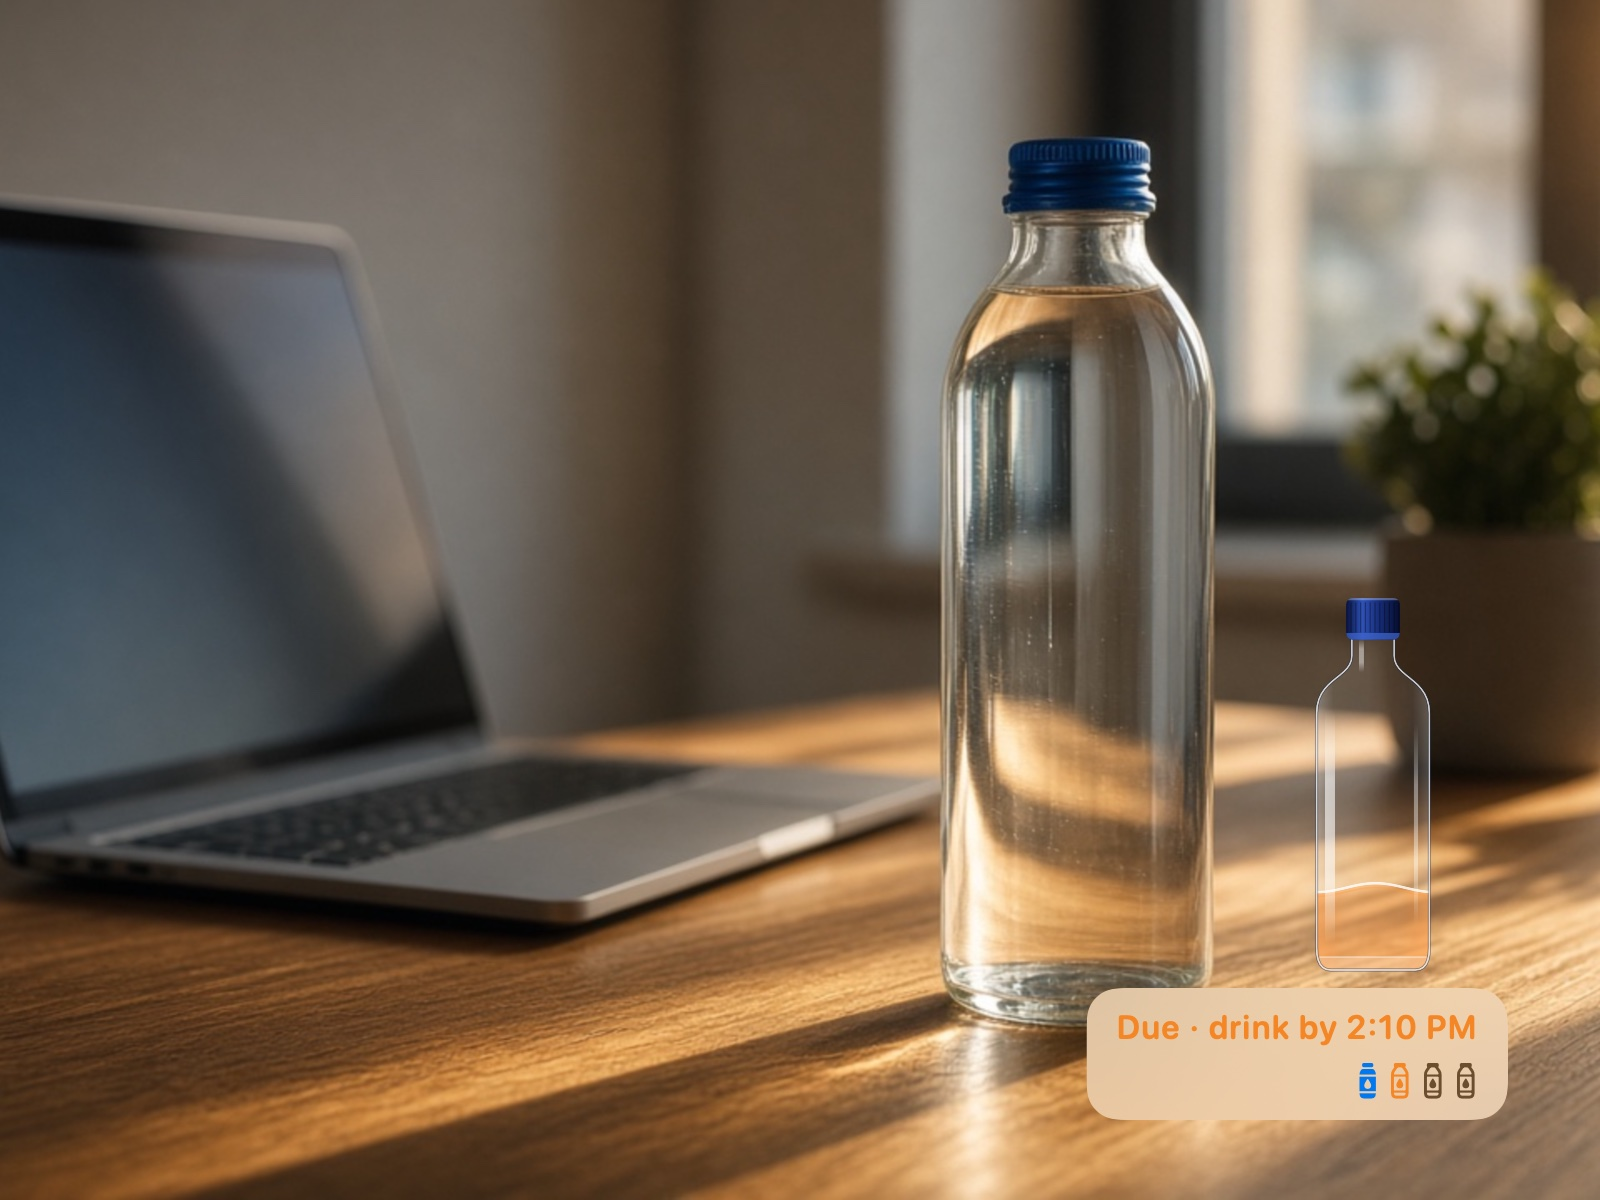
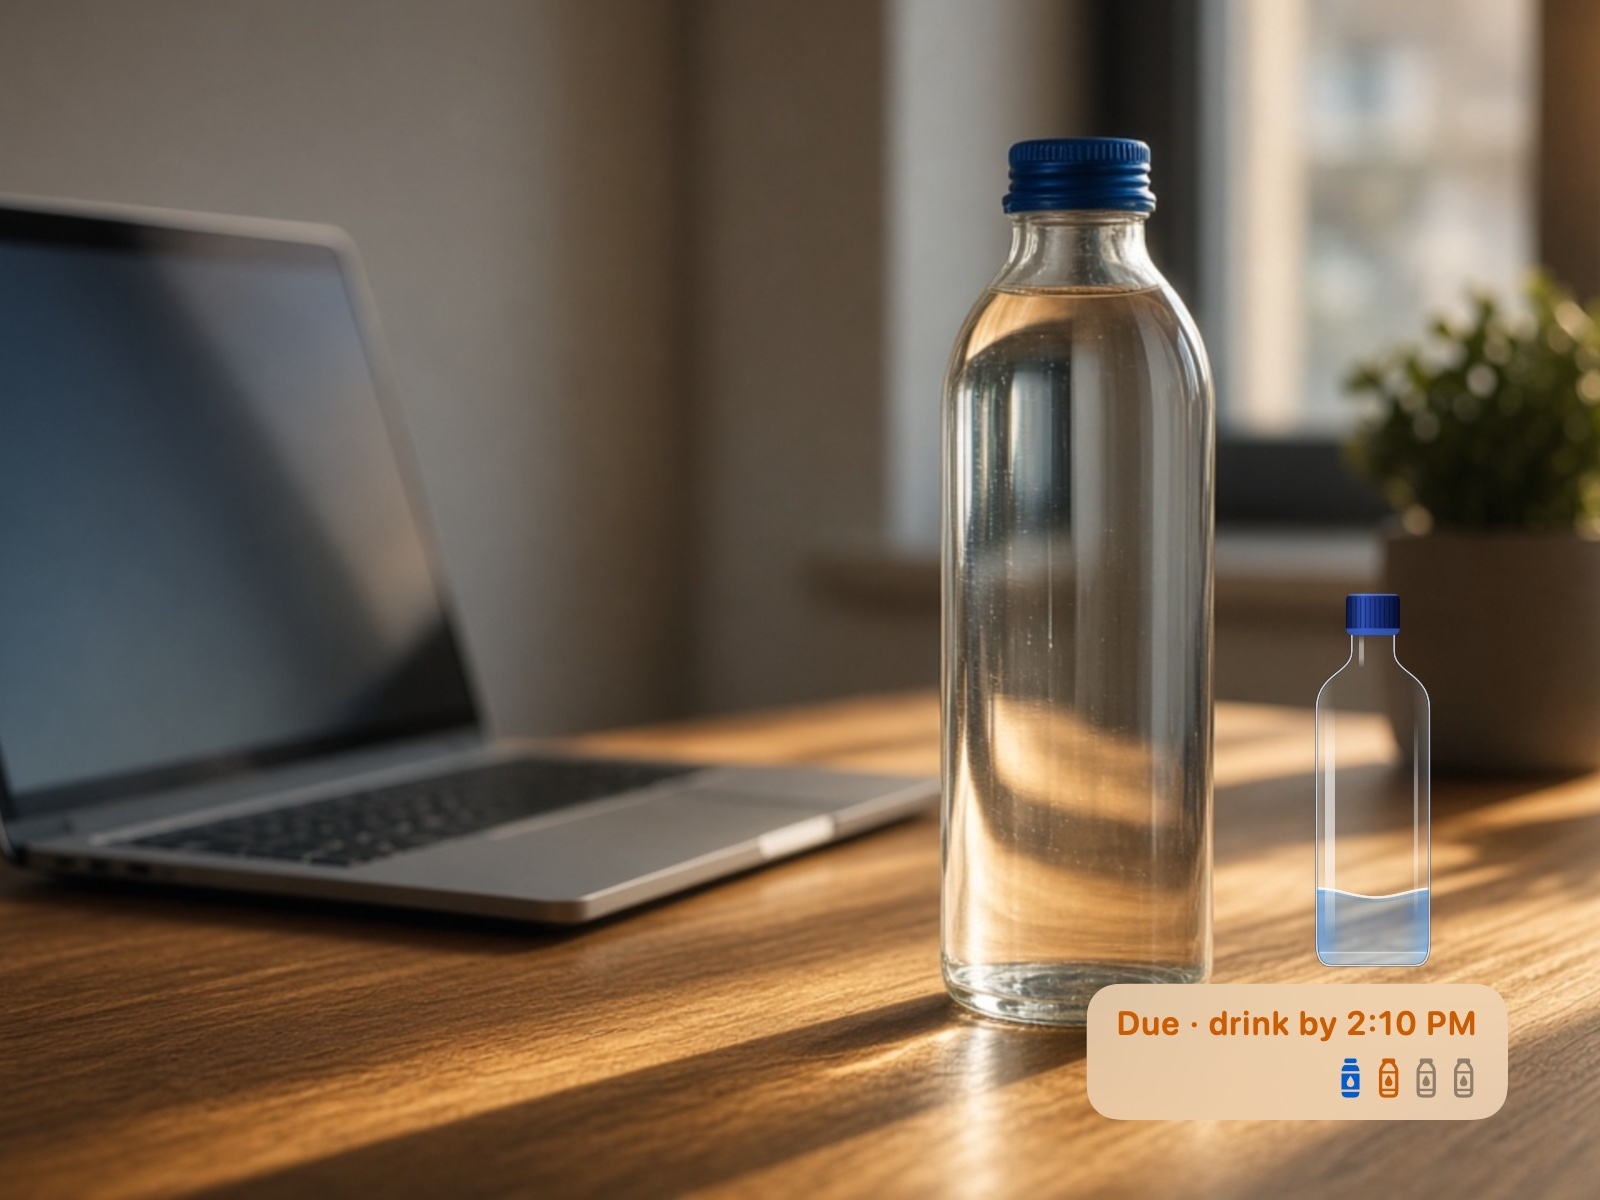
Keep the bottle's water blue when a bottle is due; only the bar turns orange

Changed region(s): [[0.6875, 0.74, 0.9375, 0.925], [0.8438, 0.4933, 0.875, 0.555], [0.8125, 0.555, 0.8438, 0.5858]]

diff --git a/Sources/Sip/UI/Bottle.swift b/Sources/Sip/UI/Bottle.swift
@@ -79,7 +79,6 @@ struct BottleView: View, Animatable {
         set { level = newValue }
     }
     var animated = true
-    var warning = false
     /// Follow the Mac's tilt and movement.
     var sloshes = false
     /// How far the cap has been unscrewed, 0 to 1; its ribs slide by as it turns.
@@ -128,13 +127,13 @@ struct BottleView: View, Animatable {
     private func canvas(phase: Double, tilt: Double, agitation: Double) -> some View {
         Canvas { context, size in
             if cap != .alone {
-                Self.draw(in: &context, size: size, level: level, phase: phase, warning: warning, tilt: tilt, agitation: agitation)
+                Self.draw(in: &context, size: size, level: level, phase: phase, tilt: tilt, agitation: agitation)
             }
             if cap != .off { Self.drawCap(in: &context, size: size, turn: capTurn) }
         }
     }
 
-    private static func draw(in context: inout GraphicsContext, size: CGSize, level: Double, phase: Double, warning: Bool,
+    private static func draw(in context: inout GraphicsContext, size: CGSize, level: Double, phase: Double,
                              tilt: Double, agitation: Double) {
         let rect = CGRect(origin: .zero, size: size)
         let width = size.width, height = size.height
@@ -183,7 +182,7 @@ struct BottleView: View, Animatable {
             surface.addLine(to: CGPoint(x: center.x - tangent.x * span + down.x * span * 2, y: center.y - tangent.y * span + down.y * span * 2))
             surface.closeSubpath()
             // Water is nearly clear too: a light tint, deeper toward the sides where you look through more of it.
-            let tint = warning ? Color(red: 1, green: 0.6, blue: 0.25) : Color(red: 0.25, green: 0.62, blue: 1)
+            let tint = Color(red: 0.25, green: 0.62, blue: 1)
             let deep = CGPoint(x: center.x + down.x * height * 0.8, y: center.y + down.y * height * 0.8)
             water.fill(surface, with: .linearGradient(Gradient(colors: [tint.opacity(0.28), tint.opacity(0.5)]), startPoint: center, endPoint: deep))
             water.fill(surface, with: across([

diff --git a/Sources/Sip/UI/Lock.swift b/Sources/Sip/UI/Lock.swift
@@ -187,7 +187,7 @@ struct CapUnlock: View {
         TimelineView(.animation(paused: hold.pressed == nil && hold.released == nil)) { context in
             let turn = turn(at: context.date)
             ZStack {
-                BottleView(level: level, warning: true, cap: .off)
+                BottleView(level: level, cap: .off)
                 BottleView(level: level, animated: false, capTurn: turn, cap: .alone)
                     // It climbs the thread for the whole hold, staying seated on the glass, and comes free right at the end.
                     .visualEffect { content, proxy in

diff --git a/Sources/Sip/Debug/Snapshots.swift b/Sources/Sip/Debug/Snapshots.swift
@@ -89,7 +89,7 @@ enum Snapshots {
                      to: folder.appending(path: "live-lock-unscrewing-\(Int(turn * 100)).png"))
         }
         CapUnlock.previewTurn = nil
-        try live(AnyView(BottleView(level: 0.06, warning: true, cap: .off).frame(height: 360).padding(30).background(Backdrop(photo: .afternoon))),
+        try live(AnyView(BottleView(level: 0.06, cap: .off).frame(height: 360).padding(30).background(Backdrop(photo: .afternoon))),
                  to: folder.appending(path: "live-cap-off.png"))
         LockView.backdrop = nil
     }

diff --git a/Sources/Sip/UI/Desk.swift b/Sources/Sip/UI/Desk.swift
@@ -117,7 +117,7 @@ struct DeskView: View {
 
     private var bottle: some View {
             ZStack(alignment: .bottom) {
-                BottleView(level: model.deskLevel, warning: late, sloshes: true)
+                BottleView(level: model.deskLevel, sloshes: true)
                     .animation(.spring(duration: 0.9, bounce: 0.25), value: model.deskLevel)
                     .frame(height: 124)
                     .shadow(color: .black.opacity(0.12), radius: 3, y: 2)

diff --git a/Sources/Sip/UI/MenuContent.swift b/Sources/Sip/UI/MenuContent.swift
@@ -212,7 +212,7 @@ private struct BottleTile: View {
     var body: some View {
         VStack(alignment: .leading, spacing: 5) {
             HStack(alignment: .top) {
-                BottleView(level: model.level(of: slot), animated: isCurrent, warning: late)
+                BottleView(level: model.level(of: slot), animated: isCurrent)
                     .frame(height: 38)
                     .opacity(isDone || isCurrent ? 1 : 0.55)
                 Spacer(minLength: 0)

diff --git a/README.md b/README.md
@@ -65,7 +65,7 @@ Sip isn’t medical advice. If you have kidney or heart problems, or take water 
 - **A firmer one when it’s due.** When a bottle is due, the bar wiggles with a chime, turns orange, and says when to drink it by to keep your Mac unlocked. It wiggles again every couple of minutes until you click **Drink**.
 
 <p align="center">
-  <img src="docs/images/nudge-desk.jpg" width="480" alt="Late afternoon sun across a wooden desk and a full, untouched glass bottle. Sip’s bottle has turned orange and reads “Due · drink by 2:10 PM”.">
+  <img src="docs/images/nudge-desk.jpg" width="480" alt="Late afternoon sun across a wooden desk and a full, untouched glass bottle. Sip’s bottle bar has turned orange and reads “Due · drink by 2:10 PM”.">
 </p>
 
 ### The Dry Spell
